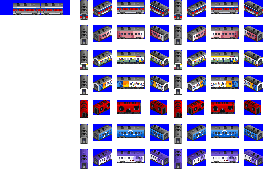
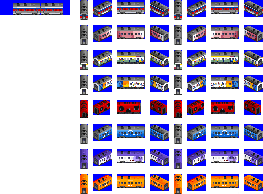
2023.4.6 G-Train 신도색 추가

diff --git a/docs/changelog.md b/docs/changelog.md
@@ -1,3 +1,10 @@
+1.4.0-RC2 (개발버전)
+-----
+* GTA-A (그래픽 개선)
+* EMU-150 DD (그래픽 개선 / 잠시 보류)
+* ITX-새마을 DD (회사색상 추가)
+* G-train 신도색 (추가)
+
 1.4.0-RC1 (개발버전)
 -----
 * 발전차 (수정)
